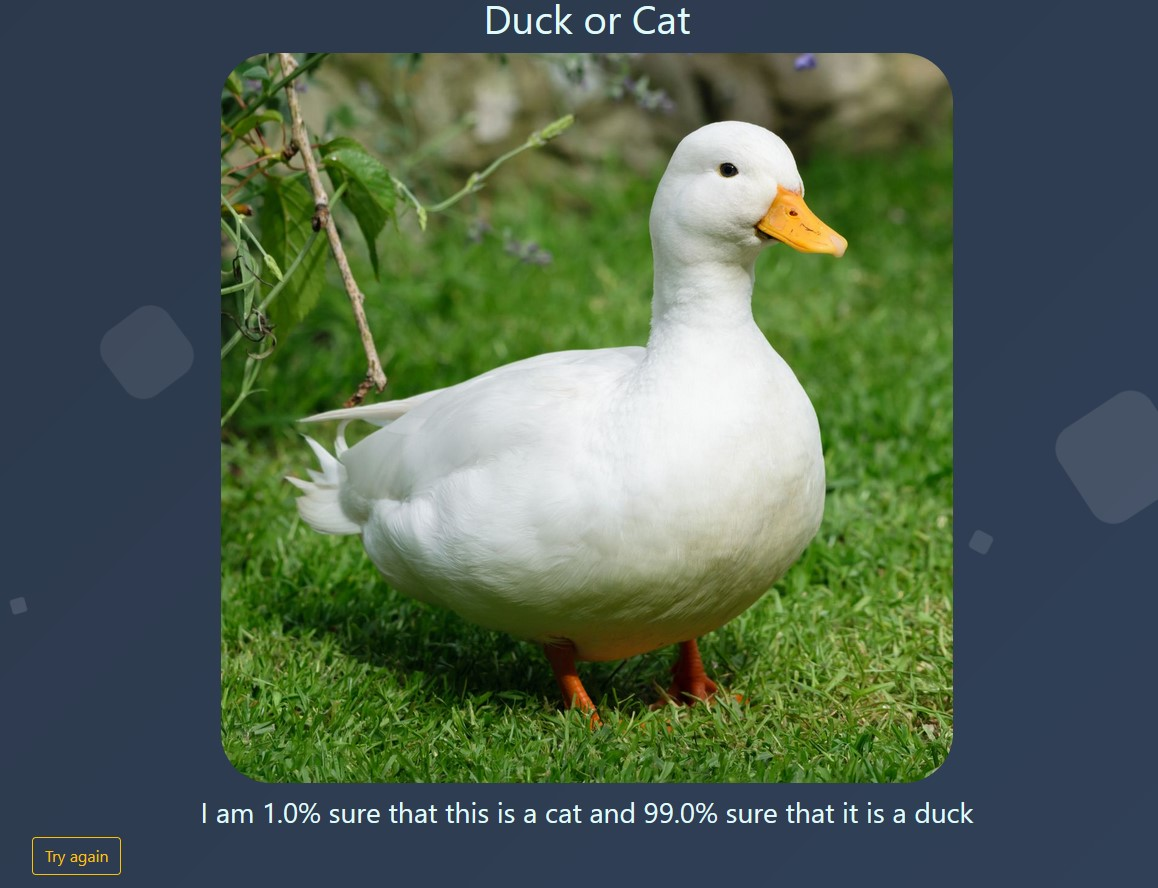
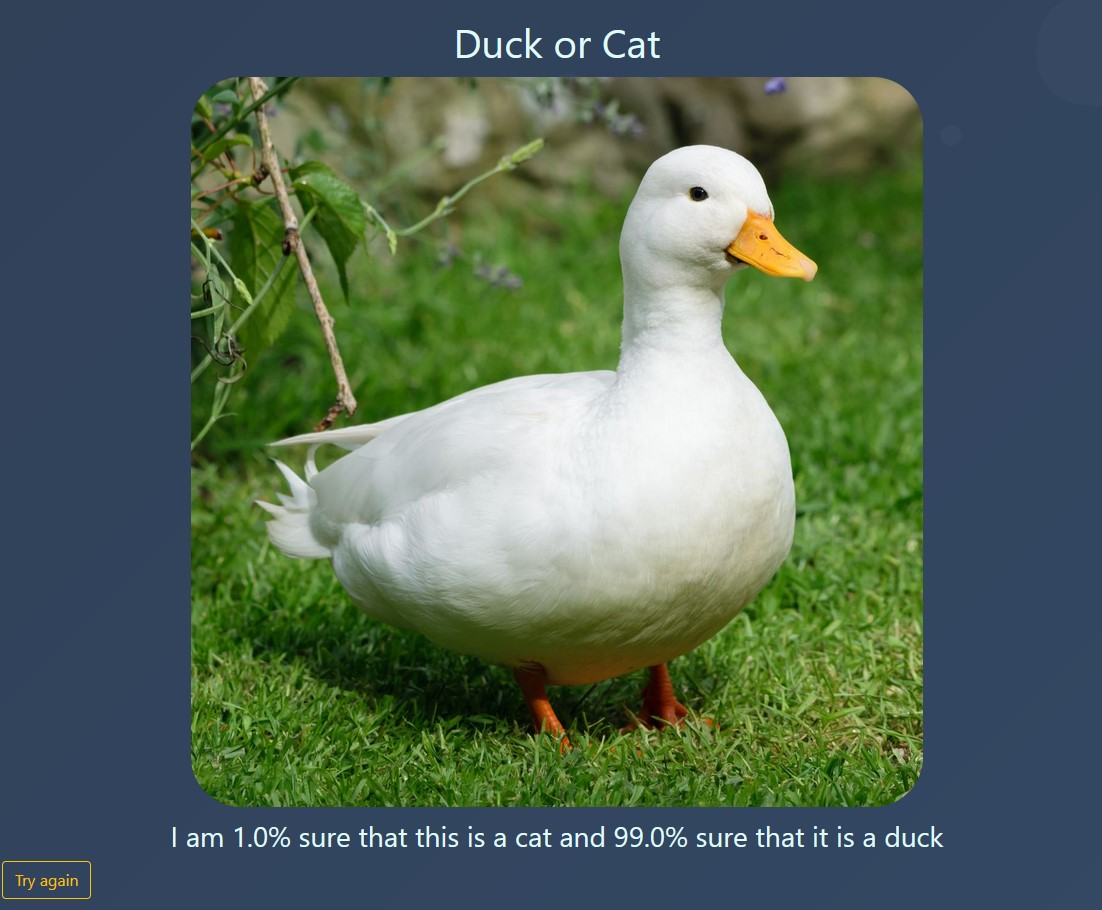
screenshot update

Changed region(s): [[0.1543, 0.0, 0.8639, 0.9426], [0.0, 0.9426, 0.1234, 1.0]]

diff --git a/README.md b/README.md
@@ -188,7 +188,7 @@ This project works in this order :
 
 But since the model is already built and stored on github at `flask/model.h5`, it's possible to skip step 1 and 2.
 
-![Screenshot DuckOrCat](https://github.com/GregoryHue/DuckOrCat/blob/main/flask/static/screenshot_duck_or_cat.png?raw=true)
+![Screenshot DuckOrCat](https://github.com/GregoryHue/DuckOrCat/blob/main/flask/static/screenshot_duck_or_cat.jpeg?raw=true)
 
 ## Scrapy
 
